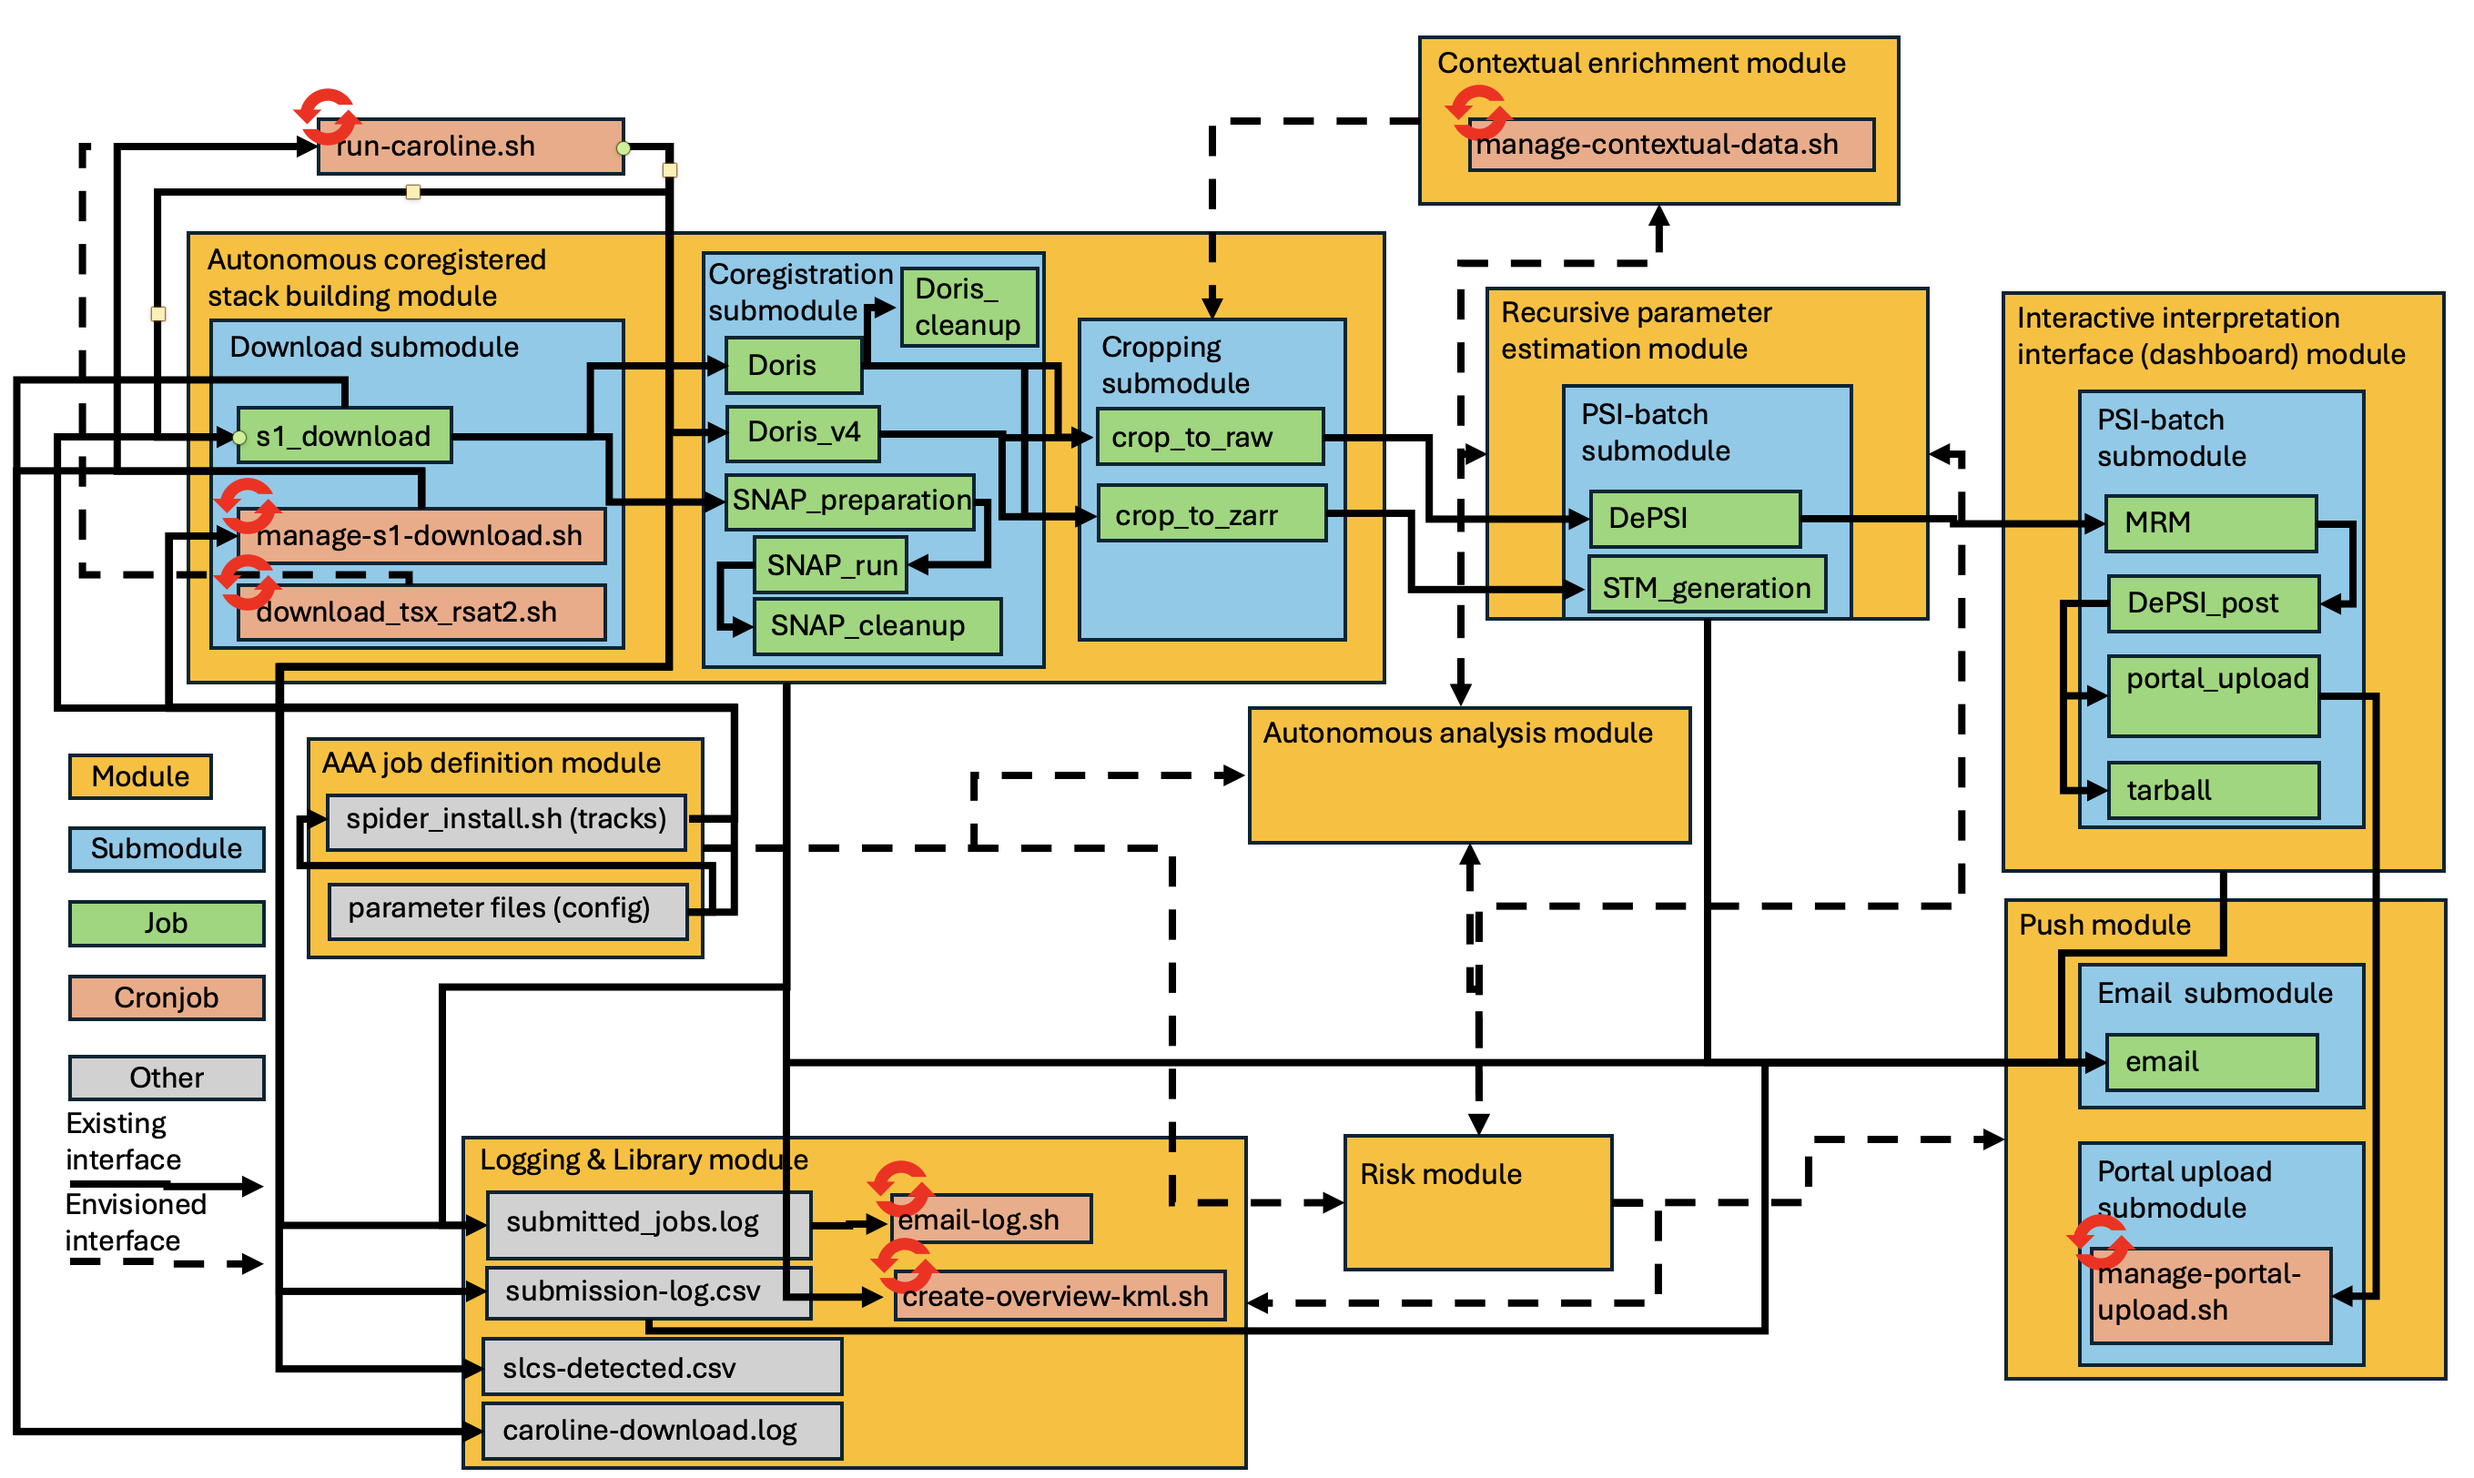
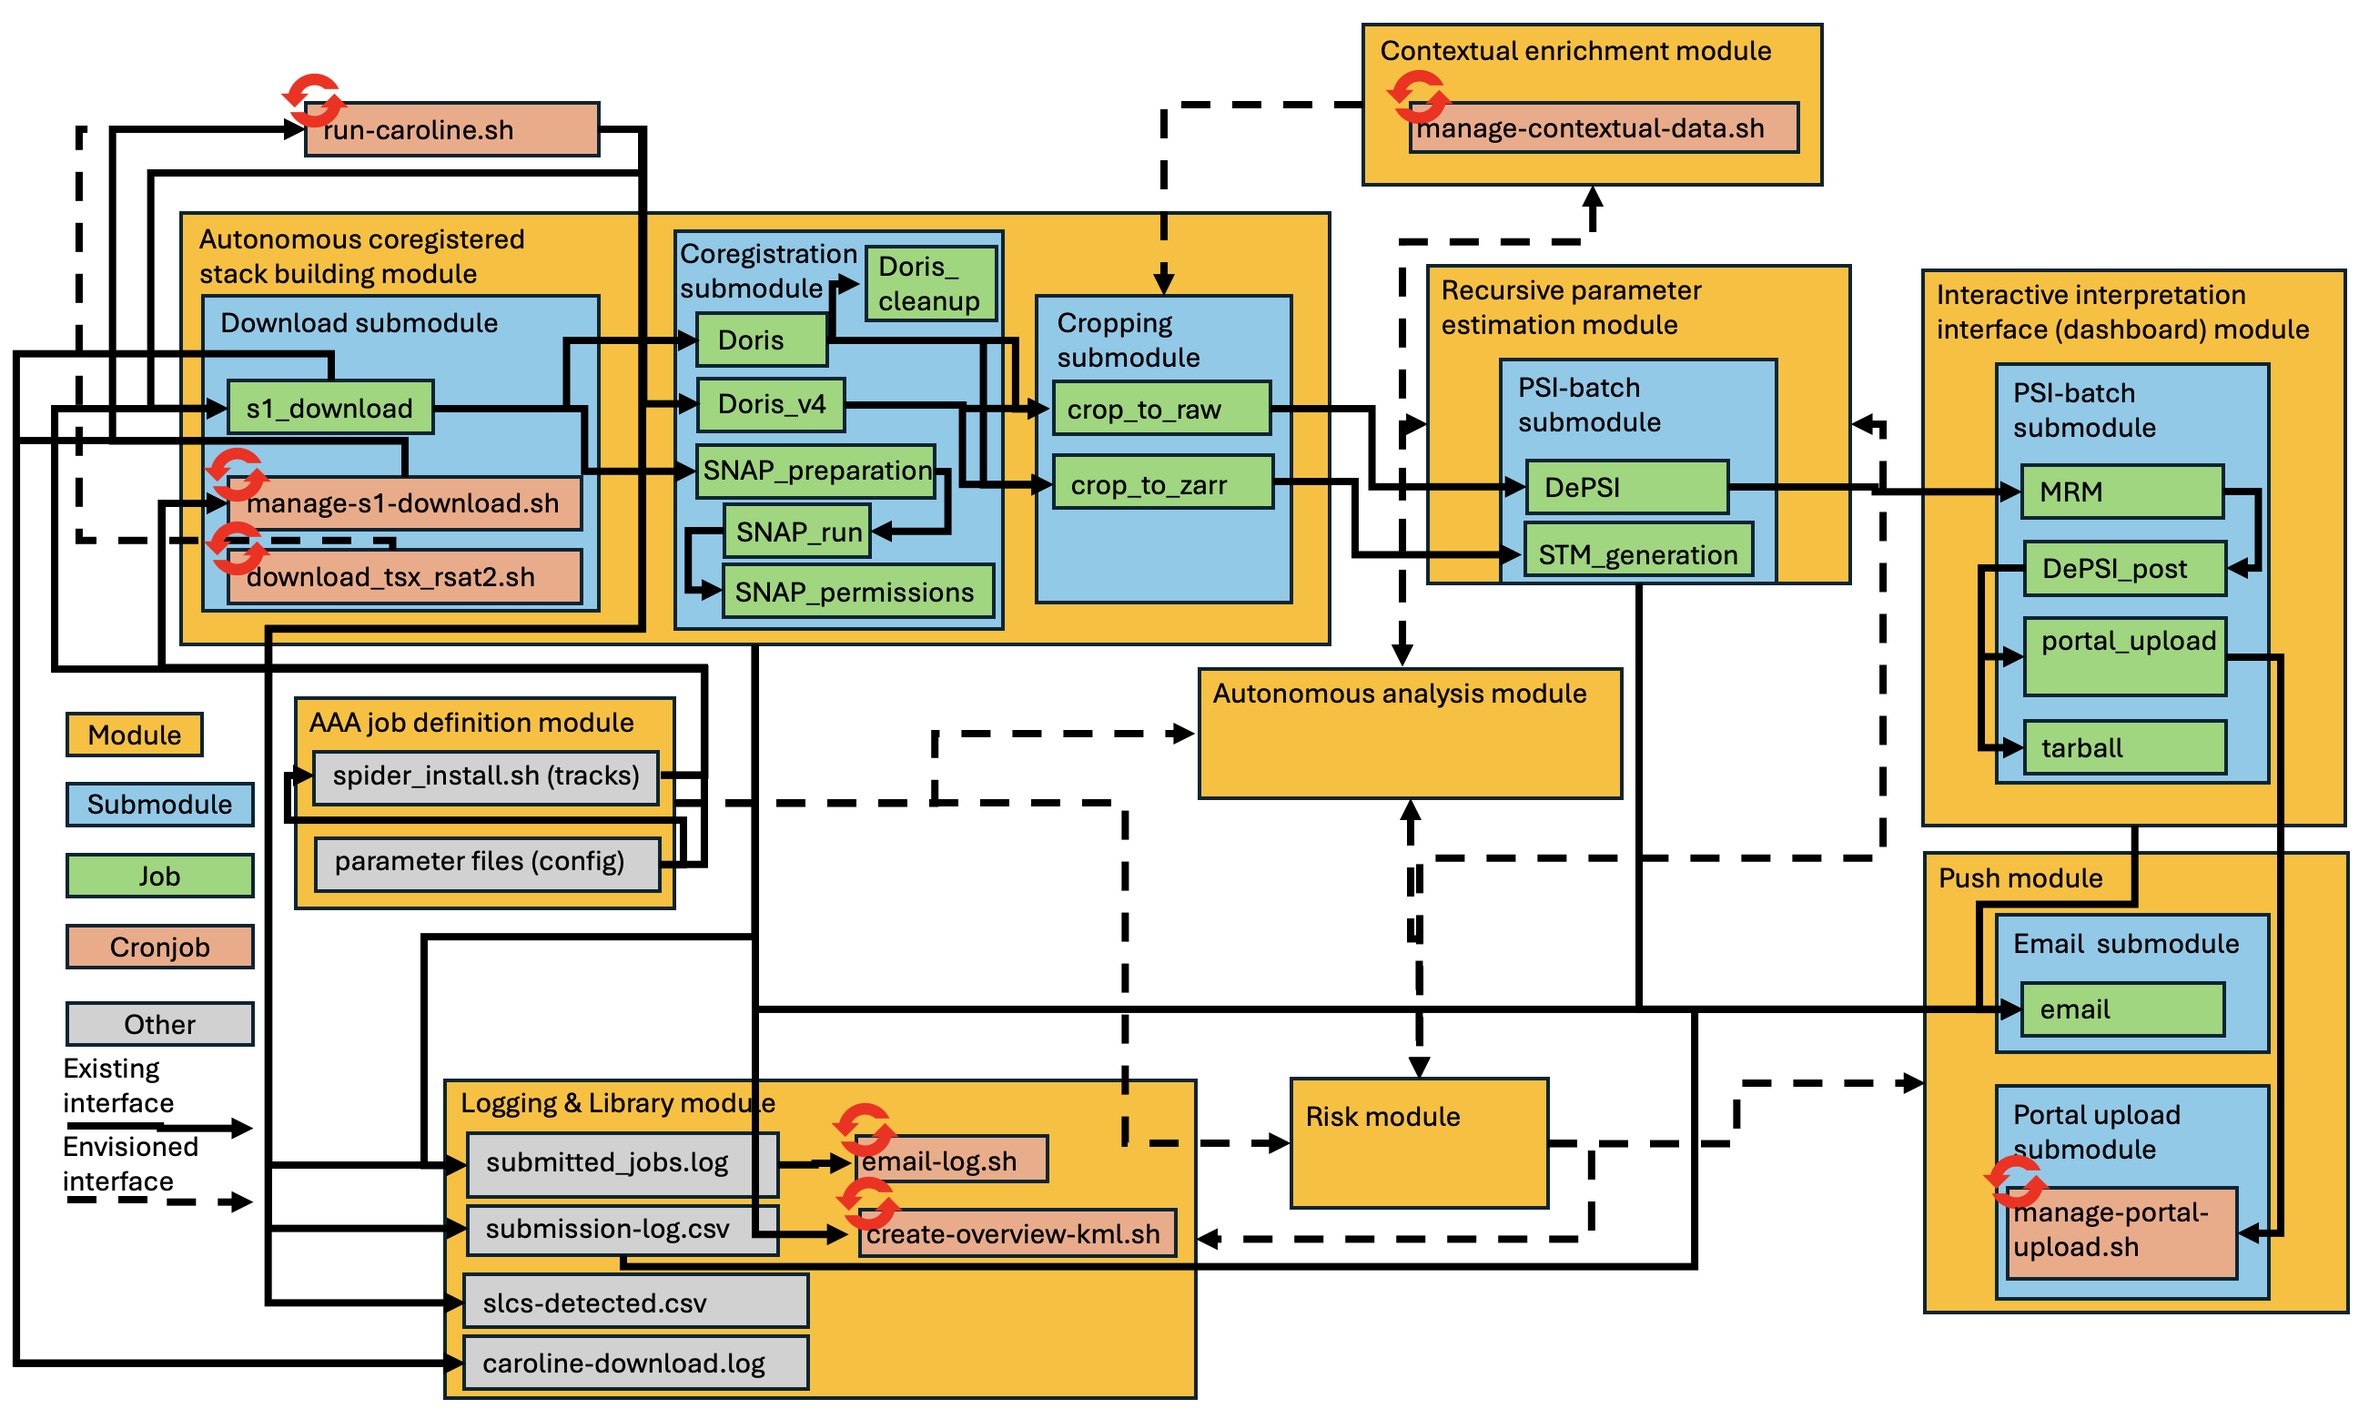
Switch to SNAP v13, SNAP now auto unzips

Changed region(s): [[0.0, 0.0, 0.9916, 1.0], [0.5888, 0.6512, 0.6197, 0.6822]]

diff --git a/caroline/preparation.py b/caroline/preparation.py
@@ -1918,7 +1918,7 @@ def prepare_s1_download(parameter_file: str, do_track: int | list | None = None)
         exit(5)  # Make the code exit with a non-zero exit code so the next steps won't run
 
 
-def prepare_snap_cleanup(parameter_file: str, do_track: int | list | None = None) -> None:
+def prepare_snap_permissions(parameter_file: str, do_track: int | list | None = None) -> None:
     """Unzip and then remove the zipped ZNAP archives.
 
     Parameters
@@ -1930,11 +1930,8 @@ def prepare_snap_cleanup(parameter_file: str, do_track: int | list | None = None
         the parameter file
     """
     search_parameters = [
-        "snap:general:AoI-name",
-        "snap:general:directory",
         "general:tracks:track",
         "general:tracks:asc_dsc",
-        "general:input-data:sensor",
     ]
     out_parameters = read_parameter_file(parameter_file, search_parameters)
 
@@ -1952,18 +1949,9 @@ def prepare_snap_cleanup(parameter_file: str, do_track: int | list | None = None
             parameter_file=parameter_file, job_description=JOB_DEFINITIONS["snap_run"], track=tracks[track]
         )
 
-        zipfiles = glob.glob(f"{snap_directory}/*-coreg.znap.zip")
-        for zf in zipfiles:
-            unzipdir = zf[:-4]
-            os.makedirs(unzipdir)  # strip the .zip, exist_ok is not okay so throw an error if it exists
-            os.system(f"unzip {zf} -d {unzipdir}")  # unzip the zipfile into the new directory
-            os.system(f"rm -rf {zf}")  # remove the zipfile
-            os.system(
-                f"chmod 775 {unzipdir}; "
-                f"chmod 775 {unzipdir}/*; "
-                f"chmod 775 {unzipdir}/*/*; "
-                f"chmod 775 {unzipdir}/*/*/*"
-            )
+        znaps = glob.glob(f"{snap_directory}/*-coreg.znap")
+        for zf in znaps:
+            os.system(f"chmod 775 {zf}; chmod 775 {zf}/*; chmod 775 {zf}/*/*; chmod 775 {zf}/*/*/*")
 
 
 def prepare_snap_preparation(parameter_file: str, do_track: int | list | None = None) -> None:

diff --git a/docs/management.md b/docs/management.md
@@ -5,7 +5,7 @@
 - Linux operating system
 - `/etc/profile.d/modules.sh` (for module loading)
 - `/project/caroline/Software/bin/init.sh` (for module initialization)
-- The modules `python/2.7.15`, `python/3.10.4`, `gdal/3.4.1-alma9`, `matlab/R2021b`, `snap/12.0.0`
+- The modules `python/2.7.15`, `python/3.10.4`, `gdal/3.4.1-alma9`, `matlab/R2021b`, `snap/13.0.0`
 - `pip` for Python installation
 - Internet access on the HPC for querying the ASF servers, GitHub, Bitbucket, and contextual data
 - Valid SSH keys for GitHub and Bitbucket

diff --git a/docs/abbreviations.md b/docs/abbreviations.md
@@ -17,9 +17,9 @@ and `NNN` the three-letter area of interest abbreviation.
 - `D4`: DeInSAR
 - `D5`: Doris v5
 - `DC`: Doris v5 cleanup
+- `SE`: SNAP-permissions
 - `SP`: SNAP Preparation
 - `SR`: SNAP-run
-- `SC`: SNAP-Cleanup
 
 #### Cropping submodule
 
